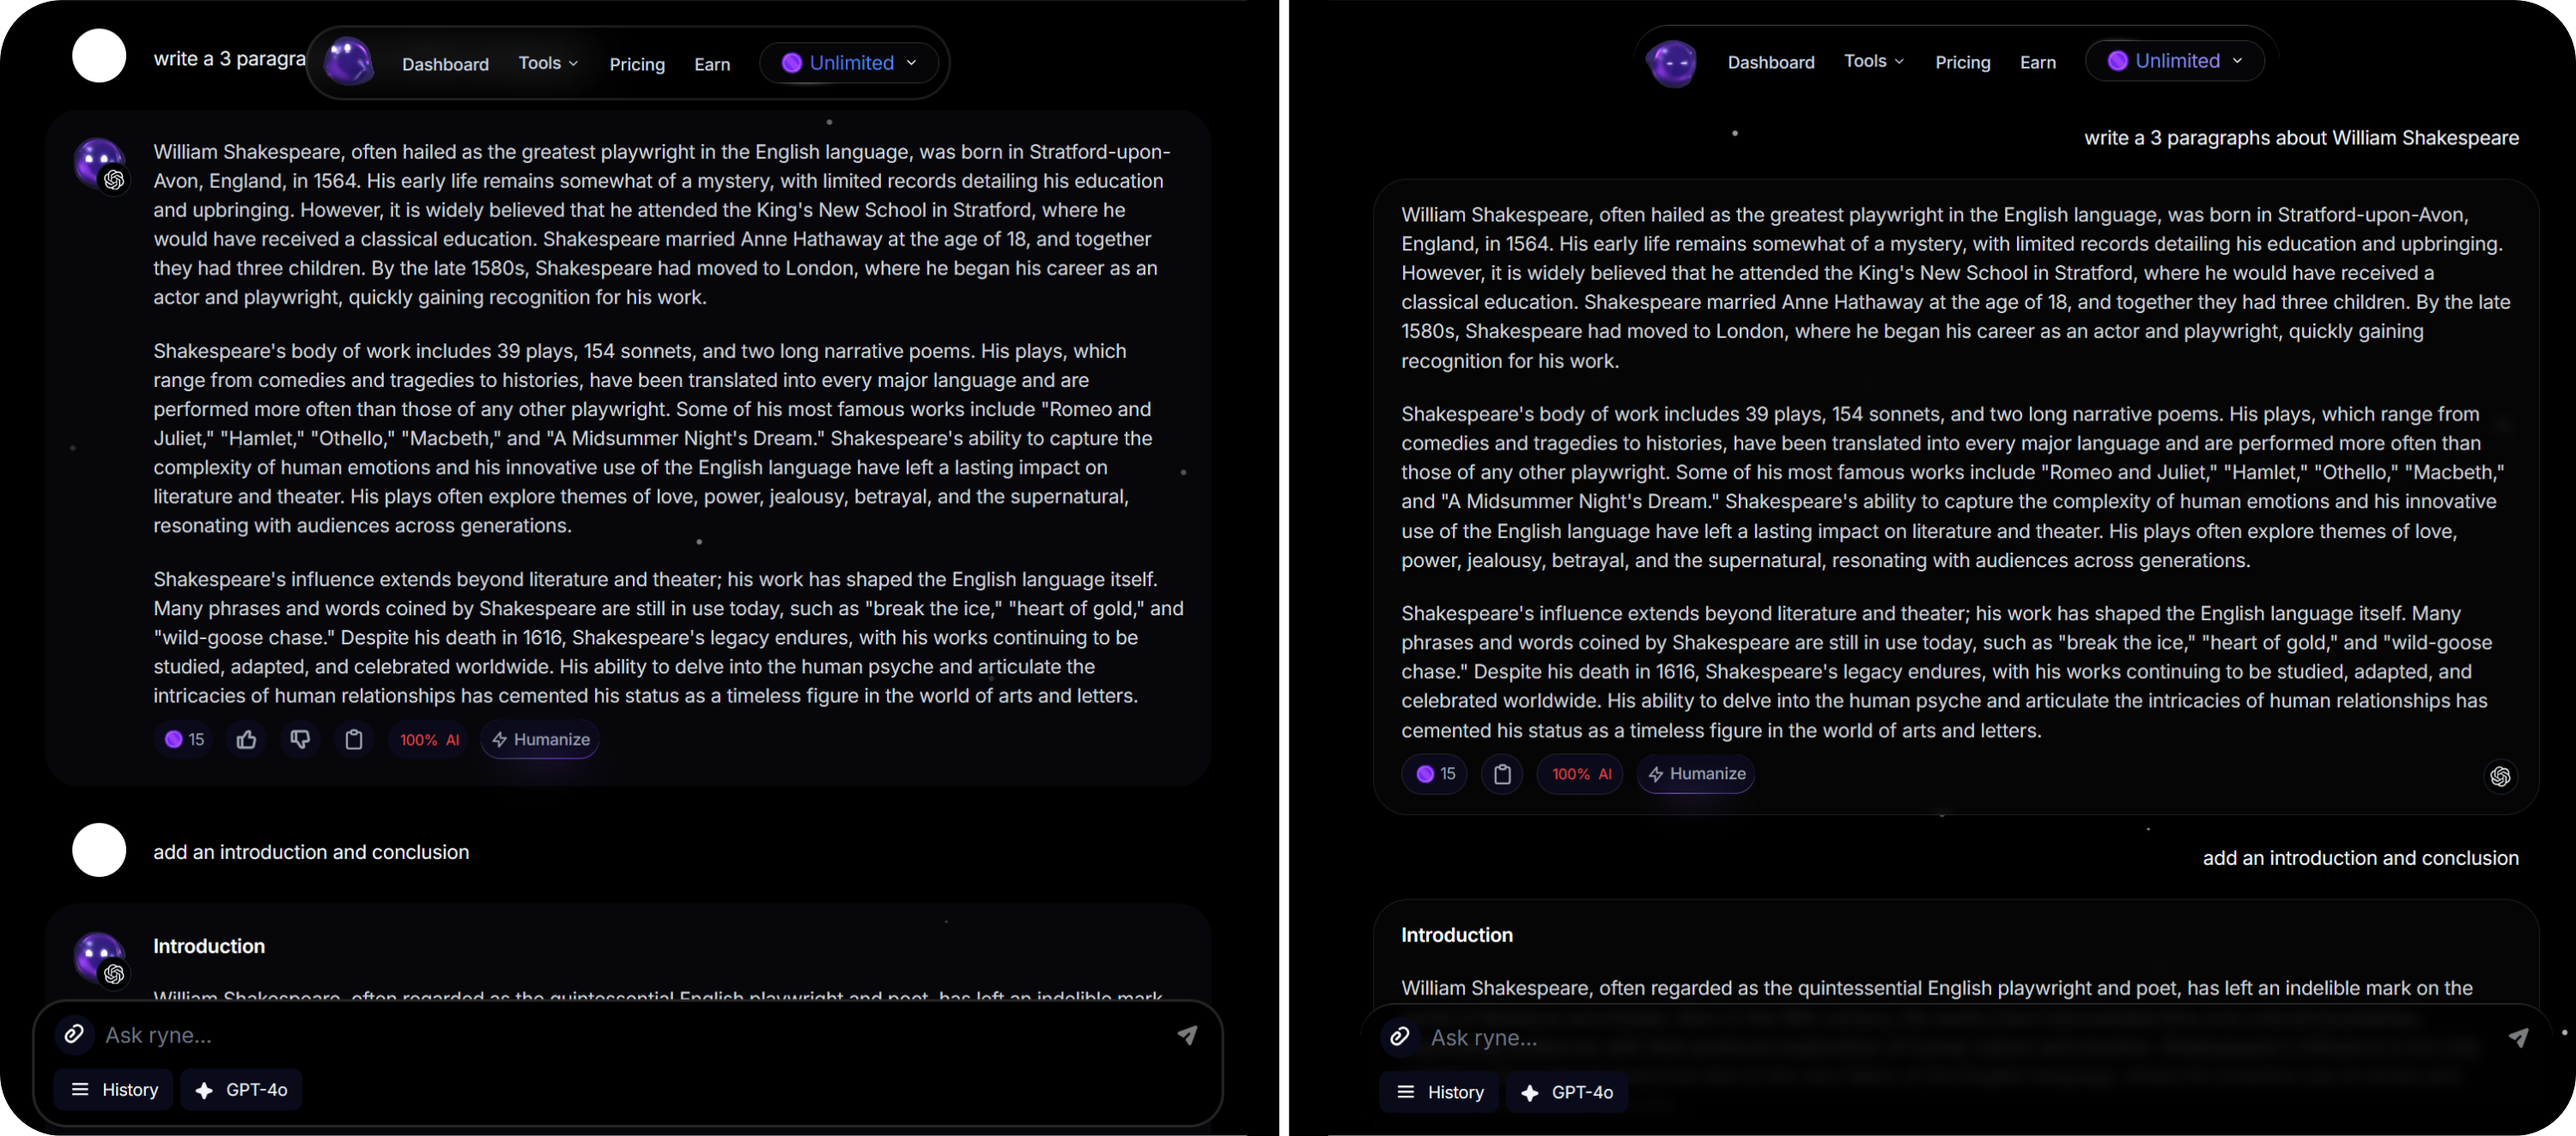
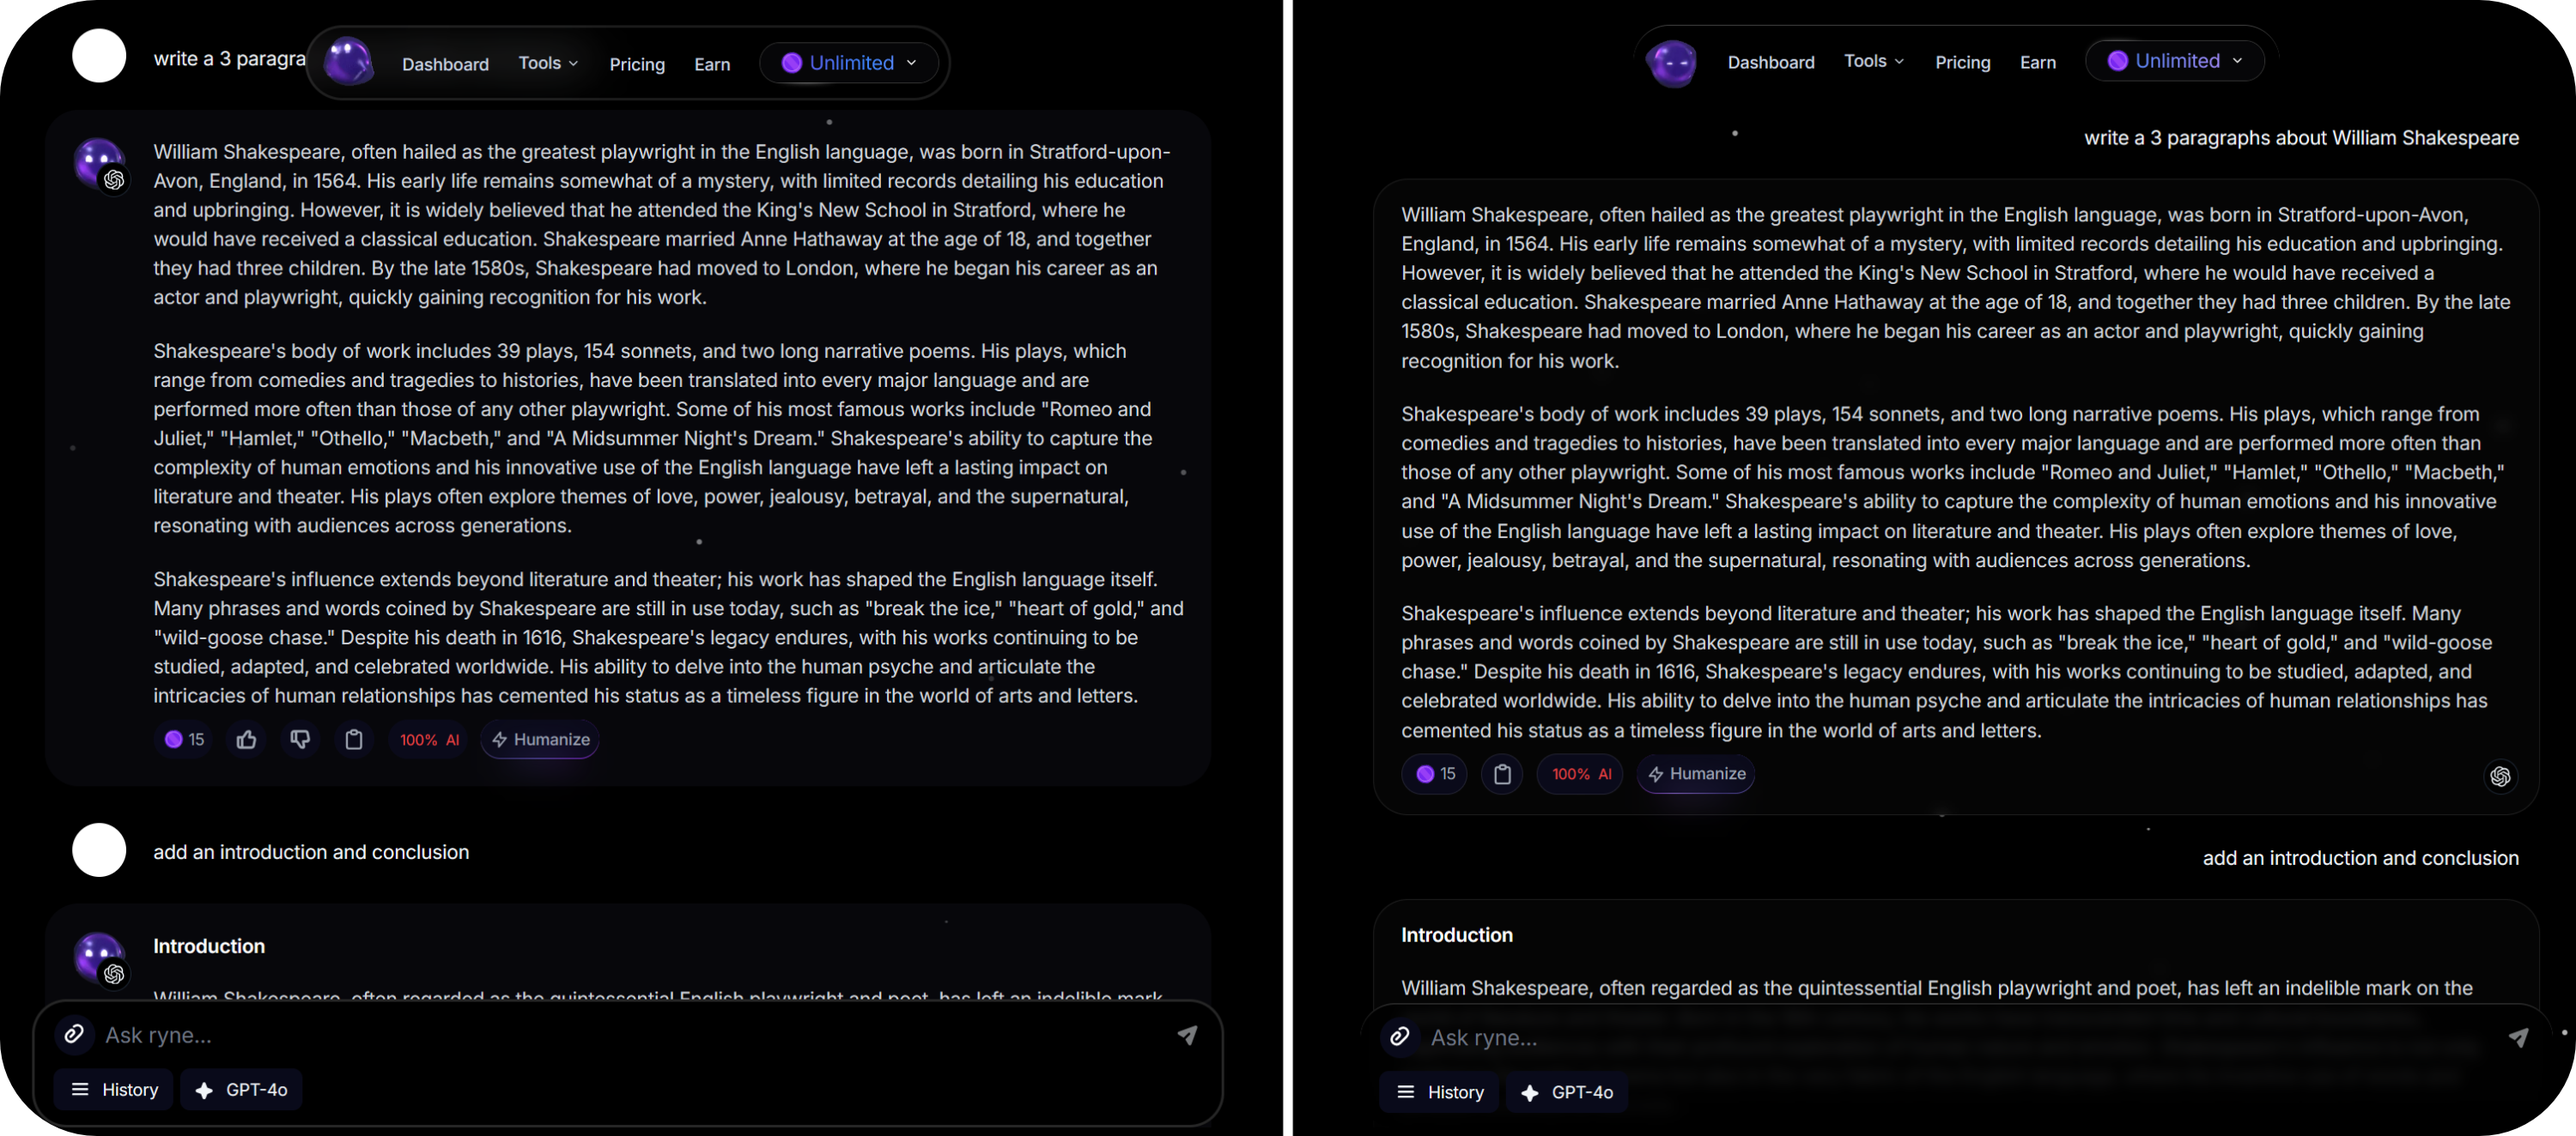
updated readme and images

diff --git a/README.md b/README.md
@@ -5,7 +5,8 @@ This extention aims to add quality of life updates to Ryne. Anything from auto f
 - Auto place your cursor in the text area (works on both chat and humanizer pages)
 - History delete button that allows you to quickly and easily delete all your chats from Ryne's humanizer and chat pages.
 - New styling for the Dashboard, Chat, and Humanizer pages.
-- Fixed a bug where if AI output code, it would weirdly wrap, and be hard to read. Now the code simply outputs with a horizontal scrollbar.
+- After highlighting text onany website you will have the option to humanize or detect for AI!
+<!-- - Fixed a bug where if AI output code, it would weirdly wrap, and be hard to read. Now the code simply outputs with a horizontal scrollbar. -->
 
 ## Feature & Style Change Examples
 
@@ -20,14 +21,14 @@ This extention aims to add quality of life updates to Ryne. Anything from auto f
 ![Highlight Options](https://raw.githubusercontent.com/bennnzo/ryne-delete-all-extention/main/readme-images/highlight.png)
 
 ### Chat Page Updates (Before: left, After: right)
-- Fixed bug were AI's code output would weirdly wrap and become unreadable. Now its simply output with a horizontal scrollbar
+<!-- - Fixed bug were AI's code output would weirdly wrap and become unreadable. Now its simply output with a horizontal scrollbar -->
 - Removed the "What would you like to explore" content in the middle
 - Removed user's profile picture
 - Moved user prompts to the right side of the screen
 - Removed like and dislike buttons
 - Added glass effect on the input bar
 
-![Chat Text Updates](https://raw.githubusercontent.com/bennnzo/ryne-delete-all-extention/main/readme-images/code/edited.png)
+<!-- ![Chat Text Updates](https://raw.githubusercontent.com/bennnzo/ryne-delete-all-extention/main/readme-images/code/edited.png) -->
 ![Chat Page Updates](https://raw.githubusercontent.com/bennnzo/ryne-delete-all-extention/main/readme-images/chat/screen-edited.png)
 ![Chat Text Updates](https://raw.githubusercontent.com/bennnzo/ryne-delete-all-extention/main/readme-images/chat/text-edited.png)
 
